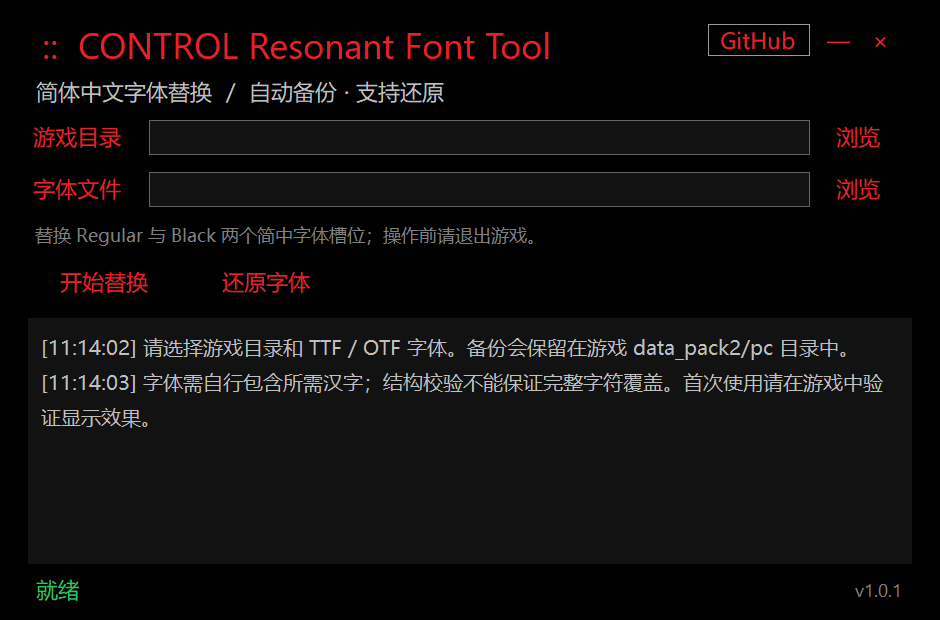
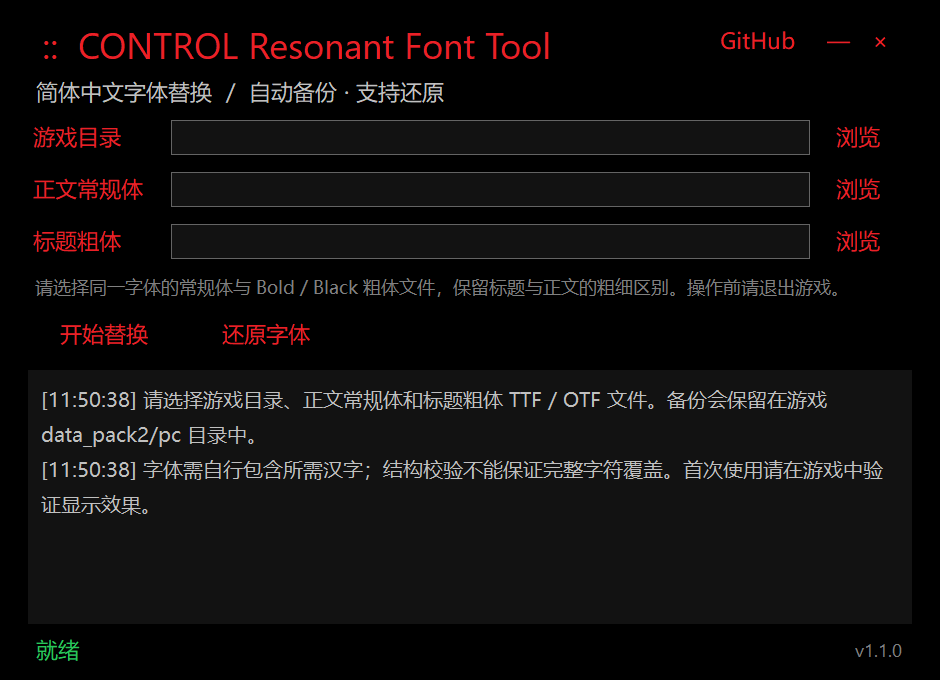
Add separate regular and bold font replacement in v1.1.0

diff --git a/MainForm.cs b/MainForm.cs
@@ -6,7 +6,7 @@ namespace ControlResonantFontTool;
 public sealed class MainForm : Form
 {
     static readonly Color Red = Color.FromArgb(235, 32, 39);
-    readonly TextBox game = Input(), font = Input();
+    readonly TextBox game = Input(), regularFont = Input(), boldFont = Input();
     readonly RichTextBox log = new() { Dock = DockStyle.Fill, ReadOnly = true, BackColor = Color.FromArgb(18, 18, 18), ForeColor = Color.Silver, BorderStyle = BorderStyle.None, Font = new Font("Microsoft YaHei UI", 10), DetectUrls = false };
     readonly Label status = new() { Text = "就绪", AutoSize = true, ForeColor = Color.FromArgb(40, 200, 90), Anchor = AnchorStyles.Left };
     readonly List<Control> inputs = new();
@@ -19,12 +19,12 @@ public sealed class MainForm : Form
         Text = "CONTROL Resonant Font Tool"; BackColor = Color.Black; ForeColor = Red;
         AutoScaleDimensions = new SizeF(96, 96); AutoScaleMode = AutoScaleMode.Dpi;
         Font = new Font("Microsoft YaHei UI", 11);
-        ClientSize = new Size(940, 620); MinimumSize = new Size(780, 540); StartPosition = FormStartPosition.CenterScreen;
+        ClientSize = new Size(940, 680); MinimumSize = new Size(780, 600); StartPosition = FormStartPosition.CenterScreen;
         FormBorderStyle = FormBorderStyle.None;
         using var icon = typeof(MainForm).Assembly.GetManifestResourceStream("ControlResonantFontTool.app.ico");
         Icon = new Icon(icon);
-        var layout = new TableLayoutPanel { Dock = DockStyle.Fill, Padding = new Padding(28, 16, 28, 14), ColumnCount = 1, RowCount = 8 };
-        foreach (int h in new[] { 56, 38, 52, 52, 42, 54 }) layout.RowStyles.Add(new RowStyle(SizeType.Absolute, h));
+        var layout = new TableLayoutPanel { Dock = DockStyle.Fill, Padding = new Padding(28, 16, 28, 14), ColumnCount = 1, RowCount = 9 };
+        foreach (int h in new[] { 56, 38, 52, 52, 52, 42, 54 }) layout.RowStyles.Add(new RowStyle(SizeType.Absolute, h));
         layout.RowStyles.Add(new RowStyle(SizeType.Percent, 100)); layout.RowStyles.Add(new RowStyle(SizeType.Absolute, 34));
         Controls.Add(layout);
         var header = new TableLayoutPanel { Dock = DockStyle.Fill, ColumnCount = 4 };
@@ -38,18 +38,19 @@ public sealed class MainForm : Form
         header.Controls.Add(Button("×", Close), 3, 0); layout.Controls.Add(header, 0, 0);
         layout.Controls.Add(new Label { Text = "简体中文字体替换  /  自动备份 · 支持还原", Dock = DockStyle.Fill, TextAlign = ContentAlignment.MiddleLeft, ForeColor = Color.Silver }, 0, 1);
         layout.Controls.Add(PathRow("游戏目录", game, true), 0, 2);
-        layout.Controls.Add(PathRow("字体文件", font, false), 0, 3);
-        layout.Controls.Add(new Label { Text = "替换 Regular 与 Black 两个简中字体槽位；操作前请退出游戏。", Dock = DockStyle.Fill, ForeColor = Color.Gray, TextAlign = ContentAlignment.MiddleLeft, Font = new Font("Microsoft YaHei UI", 9) }, 0, 4);
+        layout.Controls.Add(PathRow("正文常规体", regularFont, false), 0, 3);
+        layout.Controls.Add(PathRow("标题粗体", boldFont, false), 0, 4);
+        layout.Controls.Add(new Label { Text = "请选择同一字体的常规体与 Bold / Black 粗体文件，保留标题与正文的粗细区别。操作前请退出游戏。", Dock = DockStyle.Fill, ForeColor = Color.Gray, TextAlign = ContentAlignment.MiddleLeft, Font = new Font("Microsoft YaHei UI", 9) }, 0, 5);
         var actions = new FlowLayoutPanel { Dock = DockStyle.Fill, FlowDirection = FlowDirection.LeftToRight };
         var replace = Button("开始替换", () => Run(true)); var restore = Button("还原字体", () => Run(false));
         replace.Width = restore.Width = 150; replace.Height = restore.Height = 40;
-        actions.Controls.Add(replace); actions.Controls.Add(restore); inputs.AddRange(new[] { replace, restore }); layout.Controls.Add(actions, 0, 5);
+        actions.Controls.Add(replace); actions.Controls.Add(restore); inputs.AddRange(new[] { replace, restore }); layout.Controls.Add(actions, 0, 6);
         var panel = new Panel { Dock = DockStyle.Fill, BackColor = log.BackColor, Padding = new Padding(12), Margin = new Padding(0, 8, 0, 8) };
-        panel.Controls.Add(log); layout.Controls.Add(panel, 0, 6);
+        panel.Controls.Add(log); layout.Controls.Add(panel, 0, 7);
         var footer = new TableLayoutPanel { Dock = DockStyle.Fill, ColumnCount = 2, Margin = Padding.Empty };
         footer.ColumnStyles.Add(new ColumnStyle(SizeType.Percent, 100)); footer.ColumnStyles.Add(new ColumnStyle(SizeType.Absolute, 120));
-        footer.Controls.Add(status); footer.Controls.Add(new Label { Text = "v1.0.3", Dock = DockStyle.Fill, ForeColor = Color.Gray, TextAlign = ContentAlignment.MiddleRight, Font = new Font("Segoe UI", 9) }); layout.Controls.Add(footer, 0, 7);
-        Append("请选择游戏目录和 TTF / OTF 字体。备份会保留在游戏 data_pack2/pc 目录中。");
+        footer.Controls.Add(status); footer.Controls.Add(new Label { Text = "v1.1.0", Dock = DockStyle.Fill, ForeColor = Color.Gray, TextAlign = ContentAlignment.MiddleRight, Font = new Font("Segoe UI", 9) }); layout.Controls.Add(footer, 0, 8);
+        Append("请选择游戏目录、正文常规体和标题粗体 TTF / OTF 文件。备份会保留在游戏 data_pack2/pc 目录中。");
         Append("字体需自行包含所需汉字；结构校验不能保证完整字符覆盖。首次使用请在游戏中验证显示效果。");
         FormClosing += (_, e) => { if (busy) { e.Cancel = true; status.Text = "正在操作，请等待完成"; } };
     }
@@ -63,11 +64,11 @@ public sealed class MainForm : Form
     {
         var row = new TableLayoutPanel { Dock = DockStyle.Fill, ColumnCount = 3, Margin = Padding.Empty };
         row.ColumnStyles.Add(new ColumnStyle(SizeType.AutoSize)); row.ColumnStyles.Add(new ColumnStyle(SizeType.Percent, 100)); row.ColumnStyles.Add(new ColumnStyle(SizeType.Absolute, 92));
-        row.Controls.Add(new Label { Text = label, AutoSize = true, Anchor = AnchorStyles.Left, Margin = new Padding(0, 0, 20, 0), TextAlign = ContentAlignment.MiddleLeft }); row.Controls.Add(box);
+        row.Controls.Add(new Label { Text = label, AutoSize = true, MinimumSize = new Size(TextRenderer.MeasureText("正文常规体", Font).Width, 0), Anchor = AnchorStyles.Left, Margin = new Padding(0, 0, 20, 0), TextAlign = ContentAlignment.MiddleLeft }); row.Controls.Add(box);
         var browse = Button("浏览", () =>
         {
             if (directory) { using var dialog = new FolderBrowserDialog { Description = "选择游戏根目录或 data_pack2/pc", UseDescriptionForTitle = true }; if (dialog.ShowDialog(this) == DialogResult.OK) box.Text = dialog.SelectedPath; }
-            else { using var dialog = new OpenFileDialog { Filter = "字体文件 (*.ttf;*.otf)|*.ttf;*.otf", Title = "选择替换字体" }; if (dialog.ShowDialog(this) == DialogResult.OK) box.Text = dialog.FileName; }
+            else { using var dialog = new OpenFileDialog { Filter = "字体文件 (*.ttf;*.otf)|*.ttf;*.otf", Title = "选择" + label + "字体" }; if (dialog.ShowDialog(this) == DialogResult.OK) box.Text = dialog.FileName; }
         });
         browse.Anchor = AnchorStyles.Left; row.Controls.Add(browse); inputs.Add(box); inputs.Add(browse); return row;
     }
@@ -75,13 +76,13 @@ public sealed class MainForm : Form
     async void Run(bool replace)
     {
         if (busy) return;
-        string root = game.Text.Trim(), file = font.Text.Trim().Trim('"');
-        if (root.Length == 0 || (replace && !File.Exists(file))) { Append("请先选择有效的游戏目录和字体文件。"); return; }
+        string root = game.Text.Trim(), regular = regularFont.Text.Trim().Trim('"'), bold = boldFont.Text.Trim().Trim('"');
+        if (root.Length == 0 || (replace && (!File.Exists(regular) || !File.Exists(bold)))) { Append("请先选择有效的游戏目录、正文常规体和标题粗体文件。"); return; }
         busy = true; inputs.ForEach(c => c.Enabled = false); status.Text = "处理中…";
         try
         {
             var progress = new Progress<string>(Append);
-            await Task.Run(() => { Action<string> report = s => ((IProgress<string>)progress).Report(s); if (replace) FontService.Replace(root, file, report); else FontService.Restore(root, report); });
+            await Task.Run(() => { Action<string> report = s => ((IProgress<string>)progress).Report(s); if (replace) FontService.Replace(root, regular, bold, report); else FontService.Restore(root, report); });
             status.Text = "完成";
         }
         catch (Exception ex) { status.Text = "操作未完成"; Append(ex.Message); }

diff --git a/Core/FontService.cs b/Core/FontService.cs
@@ -107,13 +107,23 @@ public static class FontService
         if (Hash(Path.Combine(backup, TocName)) != state.OriginalHash) throw new InvalidDataException("备份 TOC 校验失败。");
         return state;
     }
-    public static void Replace(string root, string fontFile, Action<string> log)
+    public static void Replace(string root, string fontFile, Action<string> log) => Replace(root, fontFile, fontFile, log);
+
+    public static void Replace(string root, string regularFile, string boldFile, Action<string> log)
     {
         GameClosed(); string pc = FindPc(root), tocPath = Path.Combine(pc, TocName);
         using var operationLock = new FileStream(Path.Combine(pc, ".fonttool.lock"), FileMode.OpenOrCreate, FileAccess.ReadWrite, FileShare.None);
         string backup = BackupDirectory(pc);
-        if (new FileInfo(fontFile).Length > 128 * 1024 * 1024) throw new InvalidDataException("字体超过 128 MB。");
-        byte[] font = File.ReadAllBytes(fontFile); ValidateFont(font); log("字体结构校验通过。");
+        byte[] ReadFont(string path, string role)
+        {
+            if (new FileInfo(path).Length > 128 * 1024 * 1024) throw new InvalidDataException(role + "字体超过 128 MB。");
+            byte[] data = File.ReadAllBytes(path);
+            ValidateFont(data);
+            log(role + "字体结构校验通过。");
+            return data;
+        }
+        byte[] regular = ReadFont(regularFile, "常规体"), bold = ReadFont(boldFile, "粗体");
+        if (regular.AsSpan().SequenceEqual(bold)) log("提示：两个字体内容相同，替换后不会产生粗细区别。请使用同一字体的不同字重文件。");
         foreach (string path in Directory.EnumerateFiles(pc, "*-development.rmdtoc"))
             if (FontPatch.Targets(TocFile.Load(path)).Length > 0)
                 throw new IOException("发现包含简中字体的开发包，可能覆盖本工具的替换。请先停用该字体 MOD：" + Path.GetFileName(path));
@@ -137,10 +147,10 @@ public static class FontService
         bool journaled = false;
         try
         {
-            byte[] patched = FontPatch.Build(toc, font, name, blob); File.WriteAllBytes(candidate, patched);
+            byte[] patched = FontPatch.Build(toc, regular, bold, name, blob); File.WriteAllBytes(candidate, patched);
             var check = TocFile.Load(candidate); Verify(check);
             foreach (var e in FontPatch.Targets(check))
-                if (!check.Extract(e).data.AsSpan().SequenceEqual(font)) throw new InvalidDataException("字体回读不一致。");
+                if (!check.Extract(e).data.AsSpan().SequenceEqual(FontPatch.IsBlack(e) ? bold : regular)) throw new InvalidDataException("字体回读不一致：" + e.Name);
             var changed = FontPatch.Targets(toc).Select(e => e.EntryIndex).ToHashSet();
             var byIndex = check.Entries.ToDictionary(e => e.EntryIndex);
             if (check.Entries.Count != toc.Entries.Count) throw new InvalidDataException("资源数量改变。");
@@ -156,7 +166,7 @@ public static class FontService
             GameClosed();
             if (Hash(tocPath) != originalHash) throw new IOException("操作期间游戏索引已改变，已中止。");
             AtomicWrite(tocPath, patched);
-            log("替换完成：两个简中字体槽位已更新。原始 blob 未改动；可随时还原。");
+            log("替换完成：Regular 已写入常规体，Black 已写入粗体；可随时还原。");
         }
         finally
         {

diff --git a/Core/FontPatch.cs b/Core/FontPatch.cs
@@ -14,10 +14,14 @@ public static class FontPatch
         (e.Name.Equals("notosanssc-regular.ttf", StringComparison.OrdinalIgnoreCase) ||
          e.Name.Equals("notosanssc-black.ttf", StringComparison.OrdinalIgnoreCase))).ToArray();
 
-    public static byte[] Build(TocFile toc, byte[] font, string blobName, string blobPath)
+    public static bool IsBlack(ResourceEntry entry) => entry.Name.Equals("notosanssc-black.ttf", StringComparison.OrdinalIgnoreCase);
+
+    public static byte[] Build(TocFile toc, byte[] font, string blobName, string blobPath) => Build(toc, font, font, blobName, blobPath);
+
+    public static byte[] Build(TocFile toc, byte[] regular, byte[] bold, string blobName, string blobPath)
     {
         var entries = Targets(toc);
-        if (entries.Length != 2 || toc.BlobCount >= 65535) throw new InvalidDataException("未找到预期的两个简体中文字体槽位。");
+        if (entries.Length != 2 || entries.Count(IsBlack) != 1 || toc.BlobCount >= 65535) throw new InvalidDataException("未找到预期的两个简体中文字体槽位。");
         byte[] path = Encoding.UTF8.GetBytes("../pc/" + blobName);
         int delta = (path.Length + 7) & ~7;
         int insert = toc.BlobCount * 24, poolEnd = toc.StrEnd + 24;
@@ -36,13 +40,25 @@ public static class FontPatch
         U(header, 56, (uint)records); U(header, 80, (uint)idx); U(header, 84, (uint)(toc.IdxSize + entries.Length * 16));
         using (var blob = new FileStream(blobPath, FileMode.CreateNew, FileAccess.Write, FileShare.None))
         {
-            // Both slots can safely share the same immutable font payload.
-            byte[] encoded = Literal(font); blob.Write(encoded); blob.Flush(true);
+            byte[] regularEncoded = Literal(regular);
+            blob.Write(regularEncoded);
+            long boldOffset = 0;
+            byte[] boldEncoded = regularEncoded;
+            if (!regular.AsSpan().SequenceEqual(bold))
+            {
+                boldOffset = blob.Position;
+                boldEncoded = Literal(bold);
+                blob.Write(boldEncoded);
+            }
+            blob.Flush(true);
             for (int i = 0; i < entries.Length; i++)
             {
                 var e = entries[i]; int desc = toc.IdxSize + i * 16, io = info + e.EntryIndex * 32;
+                byte[] font = IsBlack(e) ? bold : regular;
+                byte[] encoded = IsBlack(e) ? boldEncoded : regularEncoded;
+                ulong offset = IsBlack(e) ? (ulong)boldOffset : 0;
                 U(body, io, (uint)desc); U(body, io + 4, 16); U(body, io + 20, (uint)font.Length);
-                Q(body, idx + desc, ((ulong)toc.BlobCount << 8) | 0x10);
+                Q(body, idx + desc, (offset << 24) | ((ulong)toc.BlobCount << 8) | 0x10);
                 U(body, idx + desc + 8, (uint)font.Length); U(body, idx + desc + 12, (uint)encoded.Length);
                 int record = records + e.RecOff, metadata = checked(8 + (int)Read(body, record + 4) * 8);
                 if (metadata + 16 > e.RecLen || Read(body, record + metadata) != 1 ||
@@ -50,7 +66,7 @@ public static class FontPatch
                     throw new InvalidDataException("不支持的字体元数据结构。");
                 Q(body, record + metadata + 4, (ulong)font.Length); U(body, record + metadata + 12, Crc32.Compute(font));
             }
-            Q(body, insert + 16, (ulong)encoded.Length);
+            Q(body, insert + 16, (ulong)blob.Length);
         }
         return Rebuild(header, body);
     }

diff --git a/SelfTest.cs b/SelfTest.cs
@@ -115,6 +115,38 @@ internal static class SelfTest
         FontService.Replace(destination, fontPath, lines.Add);
         FontService.Restore(destination, lines.Add);
         Assert(FontService.Hash(tocPath) == baselineHash, "Replacement works after update-aware restore with existing lock file");
+        byte[] regular = source.Extract(targets.Single(e => !FontPatch.IsBlack(e))).data;
+        byte[] bold = source.Extract(targets.Single(FontPatch.IsBlack)).data;
+        Assert(!regular.AsSpan().SequenceEqual(bold), "Regular and Black fixtures contain distinct real font data");
+        string regularPath = Path.Combine(destination, "regular.ttf"), boldPath = Path.Combine(destination, "bold.ttf");
+        File.WriteAllBytes(regularPath, regular); File.WriteAllBytes(boldPath, bold);
+        void AssertWeights(string message)
+        {
+            var check = TocFile.Load(tocPath); FontService.Verify(check);
+            Assert(FontPatch.Targets(check).All(e => check.Extract(e).data.AsSpan().SequenceEqual(FontPatch.IsBlack(e) ? bold : regular)), message);
+            Assert(FontPatch.Targets(check).Select(e => e.Chunks[0].Offset).Distinct().Count() == 2, "Different font weights reference distinct payload offsets");
+        }
+        FontService.Replace(destination, regularPath, boldPath, lines.Add);
+        AssertWeights("Two-font replacement maps Regular and Black by name and reads both back exactly");
+        string dualHash = FontService.Hash(tocPath);
+        string invalidBold = Path.Combine(destination, "invalid-bold.ttf"); File.WriteAllBytes(invalidBold, new byte[24]);
+        Reject(() => FontService.Replace(destination, regularPath, invalidBold, lines.Add), "Invalid bold font rejected before touching installed patch");
+        Assert(FontService.Hash(tocPath) == dualHash, "Invalid bold selection preserves existing index");
+        FontService.Replace(destination, regularPath, boldPath, lines.Add);
+        AssertWeights("Repeated two-font replacement preserves both weights");
+        FontService.Restore(destination, lines.Add);
+        Assert(FontService.Hash(tocPath) == baselineHash, "Two-font replacement restores to original baseline");
+        // TOC order must not determine which file is used for which weight.
+        copy.Entries.Reverse();
+        string reversedBlob = Path.Combine(pc, "weight-order-test.rmdblob");
+        string reversedToc = Path.Combine(pc, "weight-order-test.rmdtoc");
+        try
+        {
+            File.WriteAllBytes(reversedToc, FontPatch.Build(copy, regular, bold, Path.GetFileName(reversedBlob), reversedBlob));
+            var check = TocFile.Load(reversedToc); FontService.Verify(check);
+            Assert(FontPatch.Targets(check).All(e => check.Extract(e).data.AsSpan().SequenceEqual(FontPatch.IsBlack(e) ? bold : regular)), "Font weight mapping is independent of resource enumeration order");
+        }
+        finally { if (File.Exists(reversedToc)) File.Delete(reversedToc); if (File.Exists(reversedBlob)) File.Delete(reversedBlob); }
         File.Copy(baselineToc, Path.Combine(pc, "base-generic-development.rmdtoc"));
         Reject(() => FontService.Replace(destination, fontPath, lines.Add), "Conflicting development font package rejected");
         Assert(FontService.Hash(sourceToc) == initialHash, "Real game TOC remains unchanged");

diff --git a/README.md b/README.md
@@ -16,10 +16,12 @@
 ## 使用方法
 
 1. 退出游戏，选择游戏根目录或 `data_pack2/pc`。
-2. 选择包含所需汉字的独立 TTF / OTF 字体，点击“开始替换”。Regular 与 Black 两个简中字体槽位使用同一字体。
+2. 分别选择同一字体的两个独立 TTF / OTF 文件：“正文常规体”选择 Regular / Normal，“标题粗体”选择 Bold / Heavy / Black。点击“开始替换”，两个文件分别写入游戏的 Regular 与 Black 简中字体槽位，保留粗细区别。
 3. 点击“还原字体”恢复当前游戏版本首次替换前的状态。请保留游戏 `data_pack2/pc` 下的 `_fonttool_backup` 文件夹。
 
 支持 TTF 和含 CFF 轮廓的 OTF，不支持 TTC 字体集合。字体结构校验不代表完整汉字覆盖，请在游戏中确认显示效果。
+
+请使用字体本身提供的不同字重文件。工具按所选文件原样写入，不会自动加粗；两个选项使用相同内容时会提示没有粗细区别。可直接在旧版替换结果上重新选择两份字体执行替换，无需手动还原。还原功能同时恢复两个槽位。
 
 ## 备份与兼容
 
@@ -44,7 +46,7 @@ dotnet publish -c Release
 
 ## 验证情况
 
-已通过隔离环境中的字体替换、重复替换、还原一致性、异常中断恢复及备份冲突检查，并由独立解析器验证导出内容。游戏内效果尚未在本仓库 CI 中验证，欢迎通过 [Issues](https://github.com/jakeouyang/ControlResonantFontTool/issues) 反馈。
+已通过隔离环境中的双字重分别回读、资源顺序无关性、无效粗体拒绝、重复替换、还原一致性、游戏更新兼容、异常中断恢复及备份冲突检查。此前单字体导出内容也由独立解析器验证。双字重的游戏内显示效果尚未验证，欢迎通过 [Issues](https://github.com/jakeouyang/ControlResonantFontTool/issues) 反馈。
 
 ## 许可证
 
@@ -65,10 +67,12 @@ Get the latest archive from [Releases](https://github.com/jakeouyang/ControlReso
 ## Usage
 
 1. Close the game, select its root folder or `data_pack2/pc`.
-2. Choose a standalone TTF/OTF font containing the required Chinese glyphs and click Replace. Both SC Regular and Black slots use the selected font.
+2. Select two standalone TTF/OTF files from the same font family: Regular / Normal for the body field (正文常规体), and Bold / Heavy / Black for the title field (标题粗体). Click Replace. They are written separately to the SC Regular and Black slots to preserve the weight difference.
 3. Click Restore to roll back to the state before the first replacement for the current game version. Keep the `_fonttool_backup` folder under `data_pack2/pc`.
 
 TTF and OTF with CFF outlines are supported; TTC collections are not. Structural validation does not guarantee full glyph coverage — verify in-game rendering.
+
+Use distinct weights supplied by the font family. Files are written unchanged; the tool does not synthesize bold. Identical font contents produce a warning that there will be no weight difference. You can replace an existing single-font patch directly with the two selected fonts. Restore recovers both slots together.
 
 ## Backup & Compatibility
 
@@ -93,7 +97,7 @@ The output is a self-contained single-file `ControlResonantFontTool.exe`. GitHub
 
 ## Validation
 
-Offline replacement, repeated replacement, restore consistency, interrupted-transaction recovery, and backup-conflict checks passed in an isolated environment, with exported content verified by an independent parser. In-game behavior is not covered by CI — feedback via [Issues](https://github.com/jakeouyang/ControlResonantFontTool/issues) is welcome.
+Isolated checks passed for distinct weight readback, resource-order independence, invalid bold rejection, repeated replacement, restore consistency, update compatibility, interrupted-transaction recovery, and backup conflicts. Earlier single-font exports were also verified by an independent parser. In-game rendering of the two-font patch has not been verified — feedback via [Issues](https://github.com/jakeouyang/ControlResonantFontTool/issues) is welcome.
 
 ## License
 
